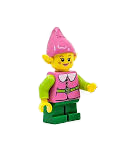
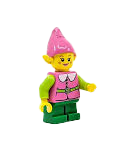
redusert bildestørrelse på noen bilder

diff --git a/css/North-Pole.css b/css/North-Pole.css
@@ -176,15 +176,36 @@
     width: 25%;
     height: 25%;
     bottom: 5%;
+    right: -30%;
+    z-index: 5;
+    animation-name: sleighTravel1,sleighTravel2;
+    animation-delay: 0s,6s;
+    animation-duration: 4s;
+    animation-timing-function:linear;
+    animation-fill-mode: forwards;
+}
+@keyframes sleighTravel1{
+    0%{bottom: 15%;
+        right: -30%;
+        transform:rotate(-15deg)}
+    100%{bottom: 5%;
+        right: 10%;}
+}
+/*#sleigh{
+    position: absolute;
+    width: 25%;
+    height: 25%;
+    bottom: 5%;
     right: 10%;
     z-index: 5;
-    animation-name: sleighTravel;
+    animation-name: sleighTravel2;
     animation-duration: 4s;
-    animation-timing-function:linear
+    animation-timing-function:linear;
+    animation-fill-mode: forwards;
     
-}
+}*/
 
-@keyframes sleighTravel{
+@keyframes sleighTravel2{
     0%{bottom: 5%;
         right: 10%;}
     50%{bottom: 5%;
@@ -245,6 +266,3 @@
     height:30%;
 }
 
-.stars{
-    background: blue;
-}

diff --git a/html/North-Pole.html b/html/North-Pole.html
@@ -40,7 +40,7 @@
 
 
         </div>    
-        <img id="house2" src="/images/North-Pole/nphouse2.png" alt="house">
+        <img id="house2" src="/images/North-Pole/house2.png" alt="house">
         <img id="giftbag" src="/images/North-Pole/giftBag.png" alt="giftbag">
         <img id="helper1" src="/images/North-Pole/helper1.png" alt="santa helper">
         <img id="helper2" src="/images/North-Pole/helper2.png" alt="santa helper">
